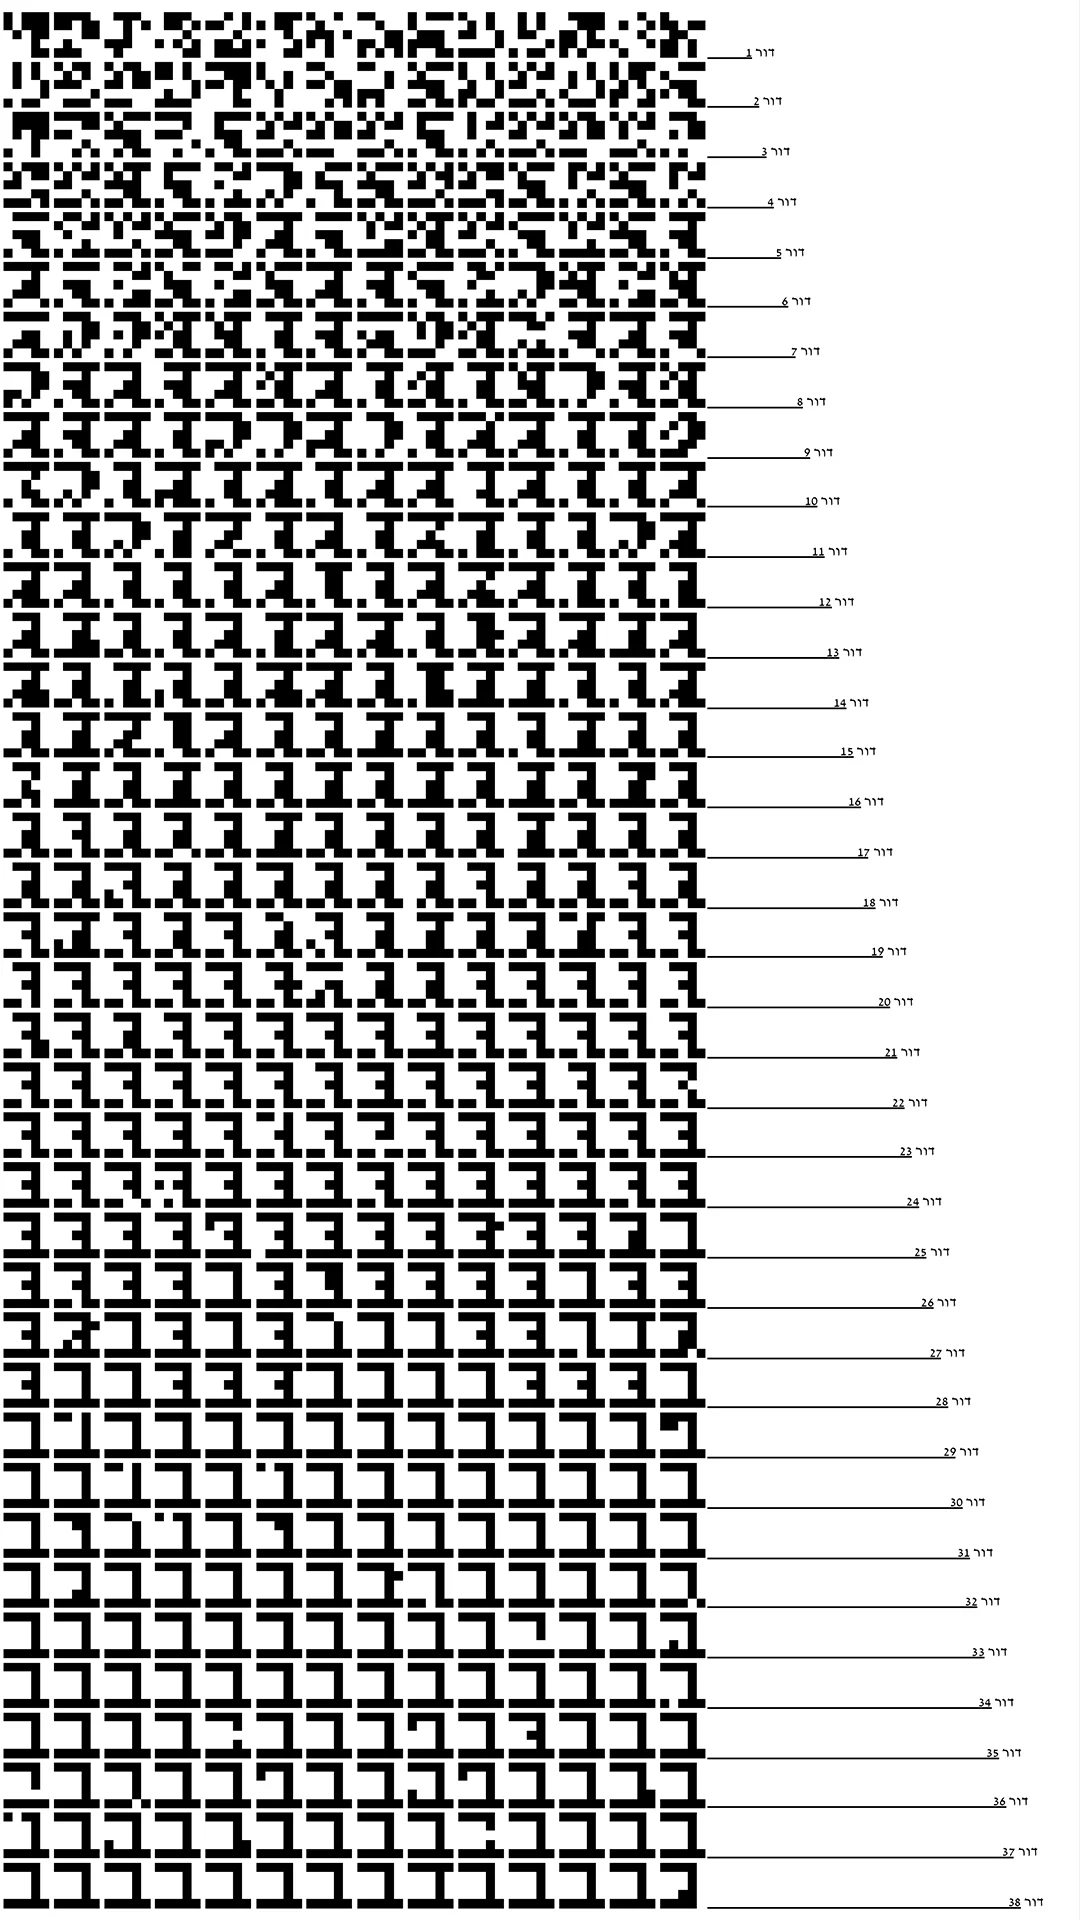
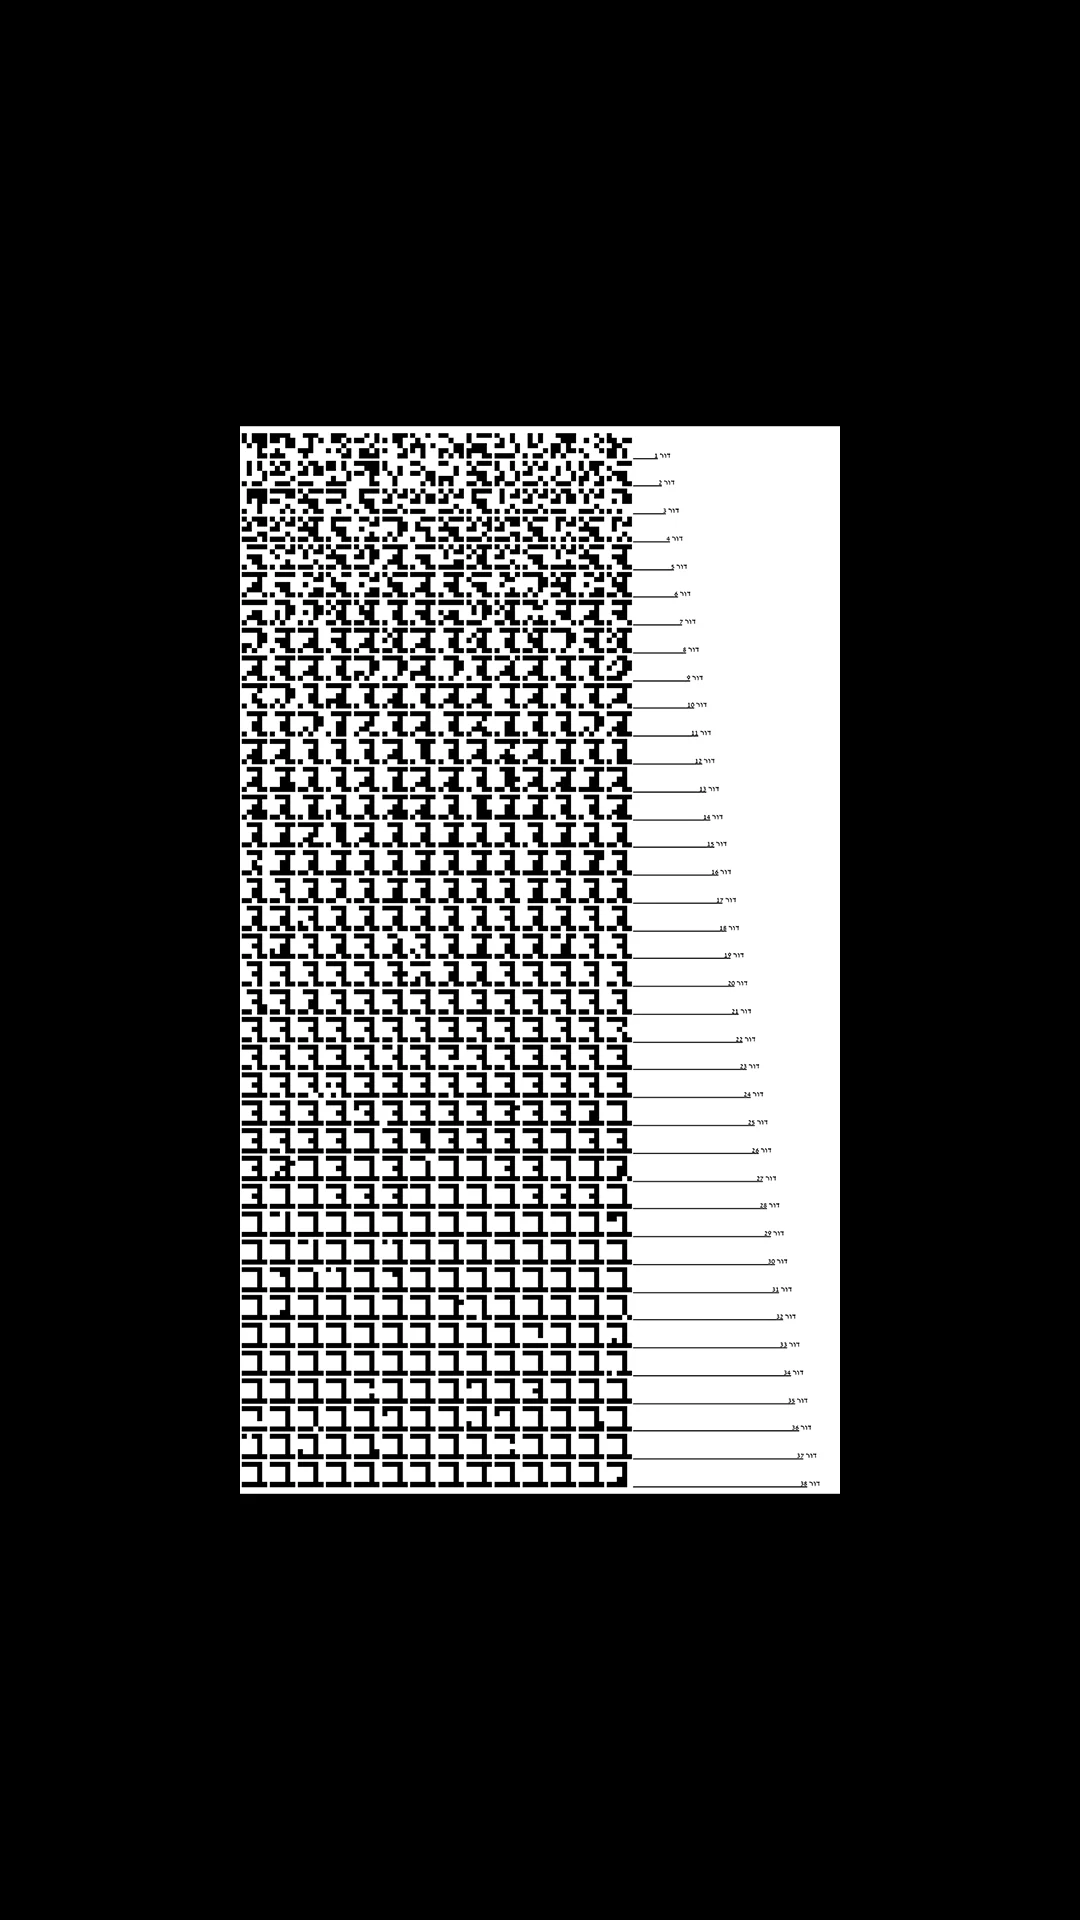
Mobile menu redesign: exit btn on overlay, centered links, contact removed; M13.webp, new_menu assets

diff --git a/src/components/Header.tsx b/src/components/Header.tsx
@@ -65,20 +65,30 @@ const Header: React.FC<HeaderProps> = ({ currentPage, setCurrentPage, navbarColo
       </div>
 
       <div className="mobile-menu-container">
-        <button className="hamburger-menu" onClick={toggleMenu}>
+        <button className="hamburger-menu" onClick={toggleMenu} aria-label="Open menu">
           <img 
-            src={isMenuOpen ? "./hamburger_menu/exit.webp" : "./hamburger_menu/menu.webp"}
-            alt={isMenuOpen ? "Close menu" : "Open menu"}
+            src={navbarColor === "white" ? "./new_menu/menu_w.png" : "./new_menu/menu_b.png"}
+            alt="Open menu"
             className="hamburger-icon"
           />
         </button>
         
         <div className={`mobile-nav-overlay ${isMenuOpen ? 'open' : ''}`}>
+          <button
+            className="mobile-menu-exit"
+            onClick={toggleMenu}
+            aria-label="Close menu"
+          >
+            <img
+              src="./new_menu/exit_b.png"
+              alt=""
+              className="mobile-menu-exit-icon"
+            />
+          </button>
           <nav className="mobile-nav">
             <a 
               href="#about" 
               className={`mobile-nav-link ${currentPage === 'about' ? 'active' : ''}`}
-              style={{ color: textColor }}
               onClick={(e) => {
                 e.preventDefault()
                 handleNavClick('about')
@@ -87,20 +97,8 @@ const Header: React.FC<HeaderProps> = ({ currentPage, setCurrentPage, navbarColo
               About
             </a>
             <a 
-              href="#cv" 
-              className={`mobile-nav-link ${currentPage === 'cv' ? 'active' : ''}`}
-              style={{ color: textColor }}
-              onClick={(e) => {
-                e.preventDefault()
-                handleNavClick('cv')
-              }}
-            >
-              CV
-            </a>
-            <a 
               href="#projects" 
               className={`mobile-nav-link ${currentPage === 'projects' ? 'active' : ''}`}
-              style={{ color: textColor }}
               onClick={(e) => {
                 e.preventDefault()
                 handleNavClick('projects')
@@ -108,18 +106,16 @@ const Header: React.FC<HeaderProps> = ({ currentPage, setCurrentPage, navbarColo
             >
               Projects
             </a>
-            
-            <div className="mobile-contact">
-              <div className="mobile-email" style={{ color: textColor }}>rotwem@gmail.com</div>
-              <div className="mobile-social-icons">
-                <a href="https://www.instagram.com/rotwem/" target="_blank" rel="noopener noreferrer">
-                  <img src="./instagrm_logo.webp" alt="Instagram" className="mobile-social-icon" />
-                </a>
-                <a href="https://www.linkedin.com/in/rotem-shadur-6b0628175/" target="_blank" rel="noopener noreferrer">
-                  <img src="./linkedin_logo.webp" alt="LinkedIn" className="mobile-social-icon" />
-                </a>
-              </div>
-            </div>
+            <a 
+              href="#cv" 
+              className={`mobile-nav-link ${currentPage === 'cv' ? 'active' : ''}`}
+              onClick={(e) => {
+                e.preventDefault()
+                handleNavClick('cv')
+              }}
+            >
+              CV
+            </a>
           </nav>
         </div>
       </div>

diff --git a/src/App.css b/src/App.css
@@ -791,18 +791,46 @@ body.projects-cursor-hidden .mobile-menu-container * {
   right: 0;
 }
 
+.mobile-menu-exit {
+  position: absolute;
+  top: 33px;
+  right: 33px;
+  z-index: 1002;
+  background: none;
+  border: none;
+  cursor: pointer;
+  padding: 8px 0 8px 8px; /* Match hamburger alignment with content margin */
+  display: flex;
+  align-items: center;
+  justify-content: flex-end;
+  width: 44px;
+  height: 44px;
+}
+
+.mobile-menu-exit-icon {
+  width: 100%;
+  height: auto;
+  transition: opacity 0.3s ease;
+}
+
+.mobile-menu-exit:hover .mobile-menu-exit-icon {
+  opacity: 0.7;
+}
+
 .mobile-nav {
   display: flex;
   flex-direction: column;
-  gap: 40px;
-  align-items: flex-start;
+  gap: 29px;
+  align-items: center;
+  justify-content: center;
 }
 
 .mobile-nav-link {
-  text-decoration: none;
+  text-decoration: underline;
   color: #000;
-  font-size: 20px;
-  font-weight: bold;
+  font-family: 'IBM Plex Serif', serif;
+  font-weight: 400;
+  font-size: 19px;
   transition: opacity 0.3s ease;
   cursor: pointer;
 }
@@ -813,38 +841,6 @@ body.projects-cursor-hidden .mobile-menu-container * {
 
 .mobile-nav-link.active {
   text-decoration: underline;
-  font-style: italic;
-}
-
-.mobile-contact {
-  margin-top: 60px;
-  display: flex;
-  flex-direction: column;
-  align-items: flex-start;
-  gap: 30px;
-}
-
-.mobile-email {
-  font-size: 20px;
-  color: #000;
-  text-align: left;
-}
-
-.mobile-social-icons {
-  display: flex;
-  gap: 30px;
-  align-items: center;
-}
-
-.mobile-social-icon {
-  width: 20px;
-  height: 20px;
-  cursor: pointer;
-  transition: opacity 0.3s ease;
-}
-
-.mobile-social-icon:hover {
-  opacity: 0.7;
 }
 
 /* Responsive adjustments */
@@ -917,11 +913,28 @@ body.projects-cursor-hidden .mobile-menu-container * {
   .hamburger-menu {
     position: static;
     flex-shrink: 0;
-    padding: 8px;
+    padding: 8px 0 8px 8px; /* No right padding so icon aligns with 33px content margin like title/slider */
     width: 44px;
     height: 44px;
+    transform: scale(0.7);
+    transform-origin: right center;
   }
-  
+
+  /* Hide hamburger when overlay is open; exit button takes its place */
+  .mobile-menu-container:has(.mobile-nav-overlay.open) .hamburger-menu {
+    visibility: hidden;
+    pointer-events: none;
+  }
+
+  .mobile-nav-link {
+    font-size: 16px;
+  }
+
+  .mobile-menu-exit {
+    transform: scale(0.7);
+    transform-origin: top right;
+  }
+
   .portfolio {
     font-size: 20px;
     margin: 0;
